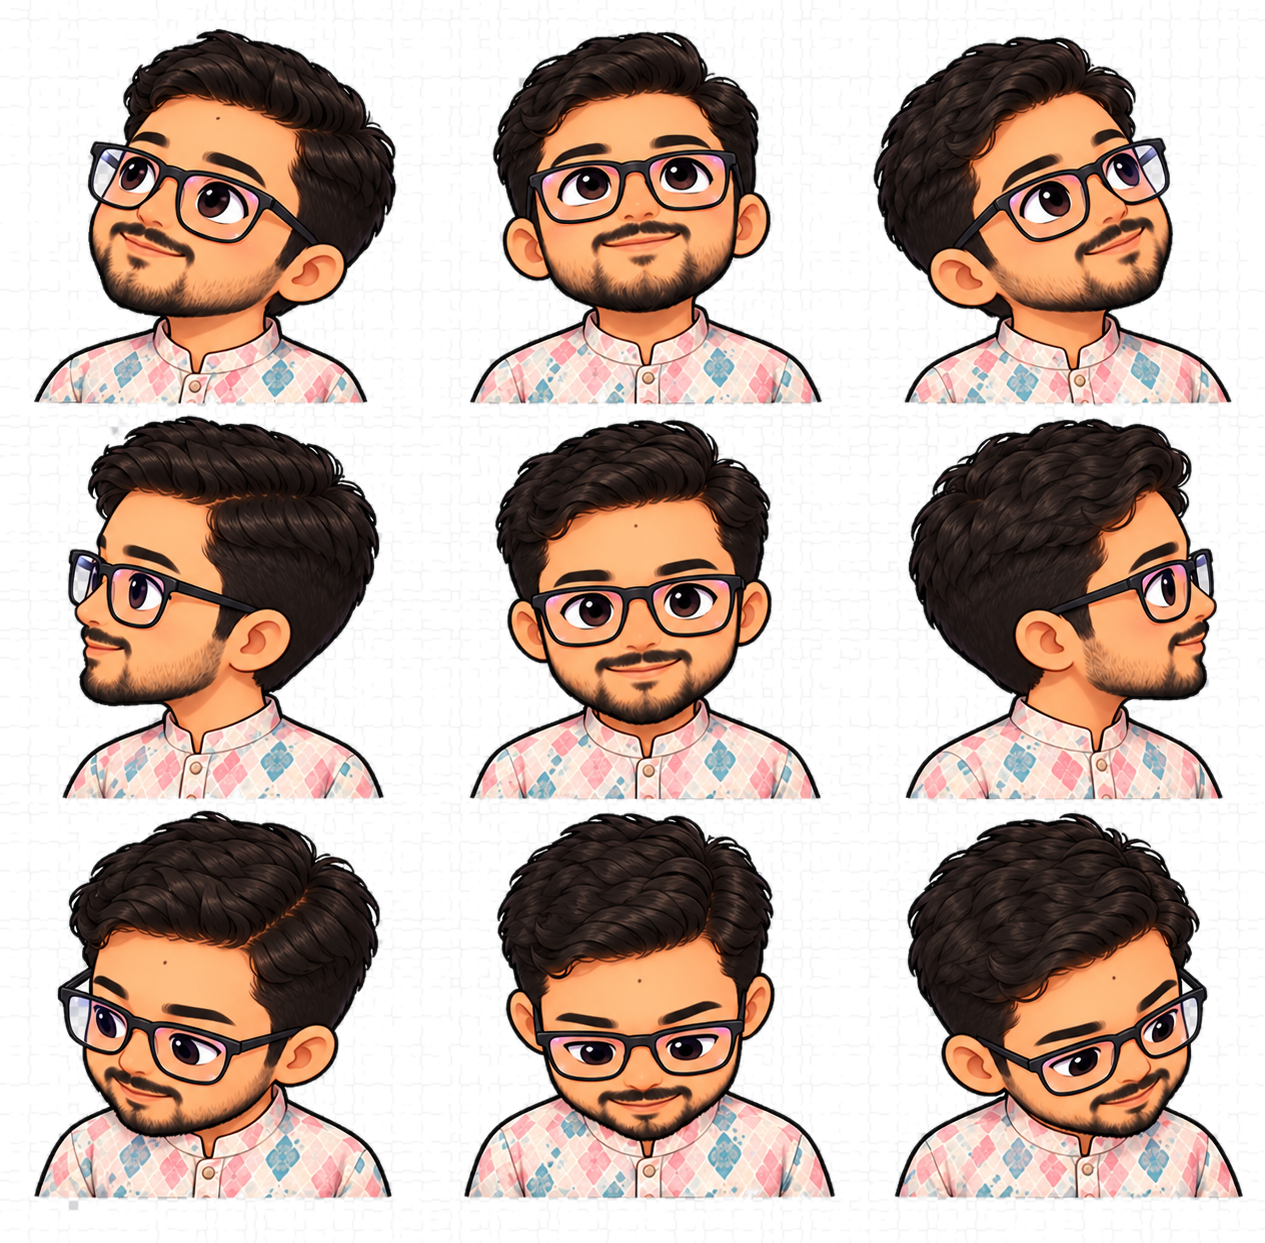
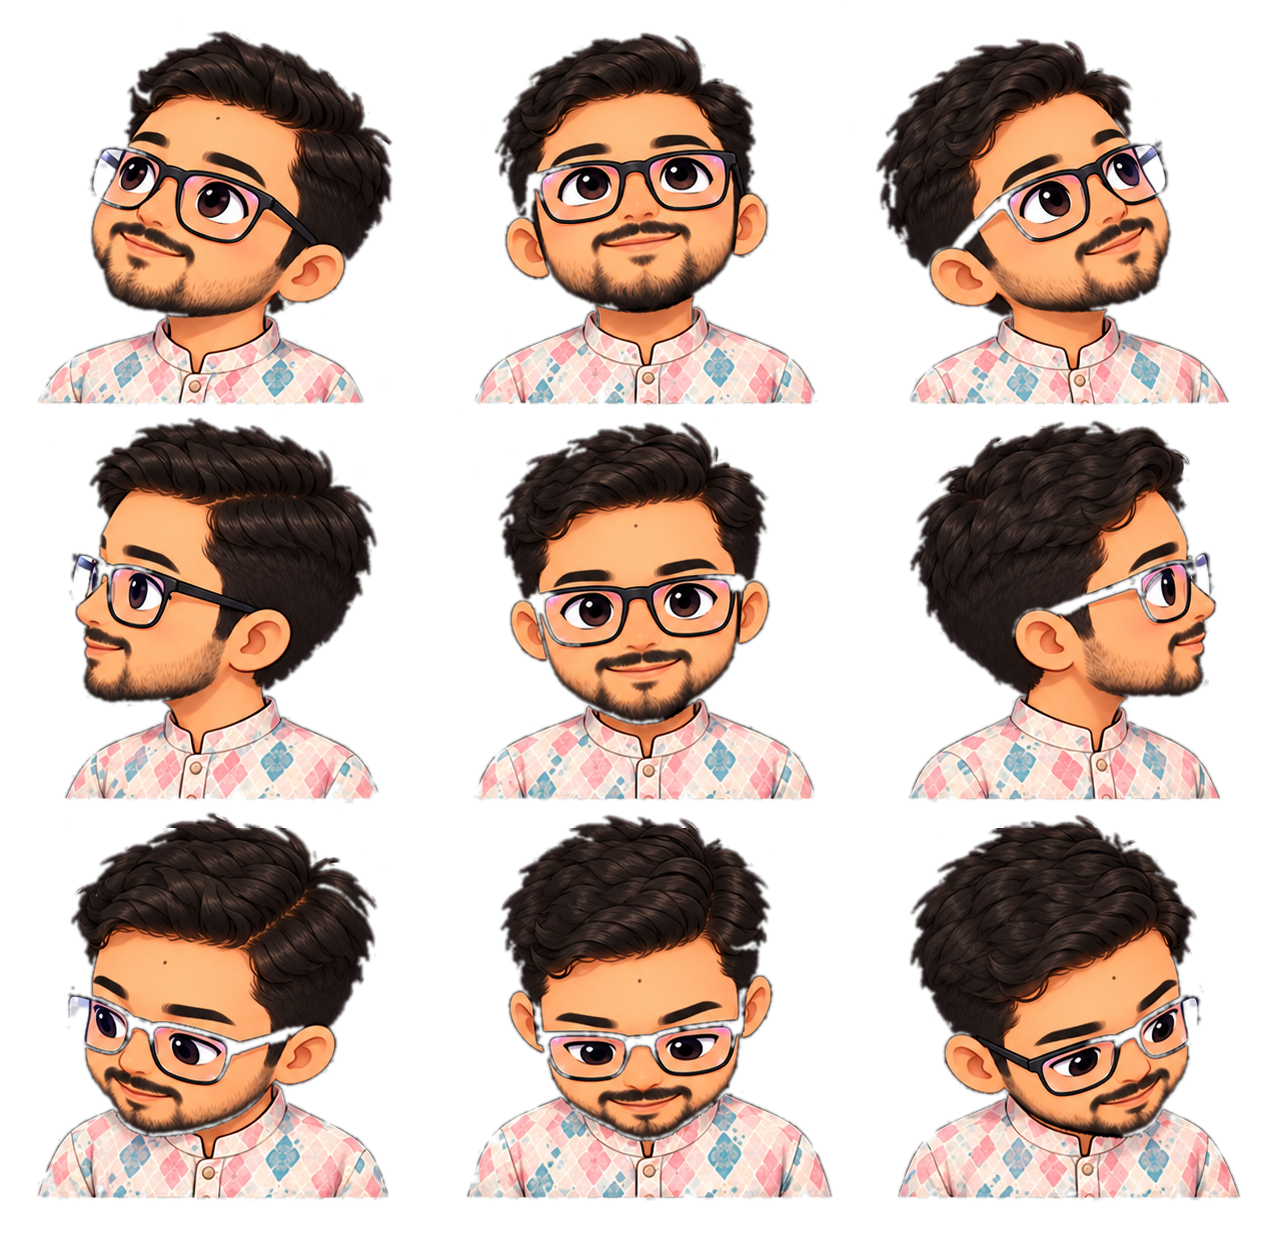
Add theme toggle to sign-in page, improve mascot sprite background removal
The sign-in mascot's sprite sheets had a baked-in checkerboard pattern
instead of real transparency (glaring in dark mode); dechecker.py now
separates background from character via grayscale chroma rather than
matching specific tones, which missed the pattern's dark grid-lines and
either left visible noise or ate into the character's own linework.

Also crops both sheets to exact multiples of 3 (their CSS sprite grid)
and blurs each cell's alpha feathering in isolation, so neither causes a
sliver of an adjacent pose to bleed across cell boundaries. A faint
residual remains in one spot - noted as a known, low-priority issue.

diff --git a/src/app/signin/page.tsx b/src/app/signin/page.tsx
@@ -5,6 +5,7 @@ import { isAuthConfigured } from "@/lib/auth/session";
 import { getStorage } from "@/lib/storage";
 import { PasswordField } from "@/components/PasswordField";
 import { SignInMascot } from "@/components/SignInMascot";
+import { ThemeToggle } from "@/components/ThemeToggle";
 
 export default async function SignInPage({
   searchParams,
@@ -50,7 +51,11 @@ export default async function SignInPage({
   }
 
   return (
-    <main className="min-h-screen bg-surface grid place-items-center px-4">
+    <main className="relative min-h-screen bg-surface grid place-items-center px-4">
+      <div className="absolute top-4 right-4">
+        <ThemeToggle />
+      </div>
+
       <div className="w-full max-w-md flex flex-col items-center">
         {/* Negative margin pulls the card up to overlap the mascot's lower
             portion; the card's opaque background (relative z-10 over the

diff --git a/scripts/dechecker.py b/scripts/dechecker.py
@@ -4,51 +4,93 @@ a sprite sheet, replacing it with real alpha transparency.
 
 The source files (public/mascot/yash_*.webp) have no alpha channel - the
 checker pattern is literal RGB pixels, not a transparent background shown
-through a viewer's own checker backdrop. This flood-fills the connected
-checker region (starting from pixels that match either checker tone, grown
-via 4-connectivity) to alpha=0, leaving the character - including any
-enclosed near-white pixels like eye highlights, which aren't connected to
-the outer background - fully opaque.
+through a viewer's own checker backdrop.
+
+Earlier attempts matched specific checker RGB tones directly (two light
+fill tones, border-connected-component flood fill). That missed the
+checker pattern's thin near-black grid-line strokes entirely - a
+completely different, unmatched tone - which survived as visible noise.
+Trying to also match "dark" pixels directly then risked eating the
+character's own dark linework (hair, glasses, outline), since proximity
+alone can't tell a grid line from an eyelash.
+
+The robust signal instead: the checker pattern - fill tones *and* grid
+lines alike - is purely grayscale (R≈G≈B) at every brightness, while the
+illustrated character has real chroma even in its "dark" areas (hair and
+outline read as a warm brown, not neutral gray, e.g. (31,22,20) in testing).
+One unified low-chroma test cleanly separates background from character
+with no separate pass needed - verified visually against the regressions
+the two prior approaches produced.
 """
 
 import sys
 import numpy as np
 from PIL import Image
-from scipy.ndimage import label, gaussian_filter
+from scipy.ndimage import gaussian_filter, label
 
-CHECKER_A = np.array([254, 254, 254])
-CHECKER_B = np.array([217, 217, 220])
-TOLERANCE = 14
+CHROMA_TOLERANCE = 8
 
 
 def dechecker(path_in: str, path_out: str) -> None:
     img = Image.open(path_in).convert("RGB")
+
+    # The sign-in mascot addresses one cell of this 3x3 sheet via CSS
+    # background-size:300% / background-position percentages, which assumes
+    # the image divides into exact thirds. Neither source image's pixel
+    # dimensions are evenly divisible by 3 (e.g. 1265x1243), so the browser
+    # has to round sub-pixel cell boundaries - enough to let a sliver of the
+    # adjacent row bleed through at certain sizes/zoom levels. Cropping to
+    # the nearest-smaller multiple of 3 on each axis makes every cell
+    # boundary land on a whole pixel, removing that rounding entirely.
+    w, h = img.size
+    exact_w, exact_h = w - (w % 3), h - (h % 3)
+    if (exact_w, exact_h) != (w, h):
+        img = img.crop((0, 0, exact_w, exact_h))
+
     arr = np.asarray(img).astype(np.int16)
+    r, g, b = arr[:, :, 0], arr[:, :, 1], arr[:, :, 2]
+    chroma = np.maximum(np.maximum(np.abs(r - g), np.abs(g - b)), np.abs(r - b))
+    is_grayscale = chroma <= CHROMA_TOLERANCE
 
-    dist_a = np.abs(arr - CHECKER_A).max(axis=-1)
-    dist_b = np.abs(arr - CHECKER_B).max(axis=-1)
-    is_checker_color = (dist_a <= TOLERANCE) | (dist_b <= TOLERANCE)
-
-    # Connected-component label the checker-colored mask; keep only
-    # components that actually touch the image border (the real background),
-    # so a stray checker-toned patch inside the character's clothing isn't
-    # also hollowed out.
-    labeled, num = label(is_checker_color)
+    # Connected-component label the grayscale mask; keep only components
+    # that actually touch the image border (the real background), so a
+    # stray grayscale patch fully enclosed inside the character (e.g. an
+    # eye highlight) is never hollowed out. 8-connectivity (diagonals count)
+    # rather than scipy's 4-connectivity default: a few cells' background
+    # regions connect to the border only through a diagonal gap between
+    # neighboring poses, and were otherwise wrongly treated as enclosed.
+    labeled, num = label(is_grayscale, structure=np.ones((3, 3)))
     border_labels = set(labeled[0, :].tolist()) | set(labeled[-1, :].tolist())
     border_labels |= set(labeled[:, 0].tolist()) | set(labeled[:, -1].tolist())
     border_labels.discard(0)
-
     background_mask = np.isin(labeled, list(border_labels))
 
     # Hard 0/255 alpha from the mask alone gives a jagged, aliased cutout -
     # feather it with a small Gaussian blur so the edge reads as smooth at
-    # the small render size this ships at.
+    # the small render size this ships at. Blurred per-cell, not across the
+    # whole sheet in one pass: the CSS sprite only ever shows one cell at a
+    # time, so a blur that reaches across a cell boundary leaks a faint
+    # ghost of the *adjacent* cell's content into this one's edge - visible
+    # as a thin sliver above the head in whichever pose sits in the row
+    # above. Blurring each cell against its own edges (not its neighbors')
+    # keeps every cell's feathering fully self-contained.
     alpha_hard = np.where(background_mask, 0, 255).astype(np.float32)
-    alpha = np.clip(gaussian_filter(alpha_hard, sigma=1.2), 0, 255).astype(np.uint8)
+    h, w = alpha_hard.shape
+    cell_h, cell_w = h // 3, w // 3
+    alpha = np.zeros_like(alpha_hard, dtype=np.uint8)
+    for row in range(3):
+        for col in range(3):
+            y0, y1 = row * cell_h, (row + 1) * cell_h
+            x0, x1 = col * cell_w, (col + 1) * cell_w
+            cell_blurred = gaussian_filter(alpha_hard[y0:y1, x0:x1], sigma=1.2)
+            alpha[y0:y1, x0:x1] = np.clip(cell_blurred, 0, 255).astype(np.uint8)
     rgba = np.dstack([np.asarray(img), alpha])
     out = Image.fromarray(rgba, mode="RGBA")
     out.save(path_out, lossless=True)
-    print(f"{path_in} -> {path_out}: removed {background_mask.sum()} / {arr.shape[0]*arr.shape[1]} px ({num} components found, {len(border_labels)} treated as background)")
+    print(
+        f"{path_in} -> {path_out}: removed {background_mask.sum()} / {arr.shape[0] * arr.shape[1]} px "
+        f"({num} components found, {len(border_labels)} treated as background)"
+    )
 
 
 if __name__ == "__main__":
